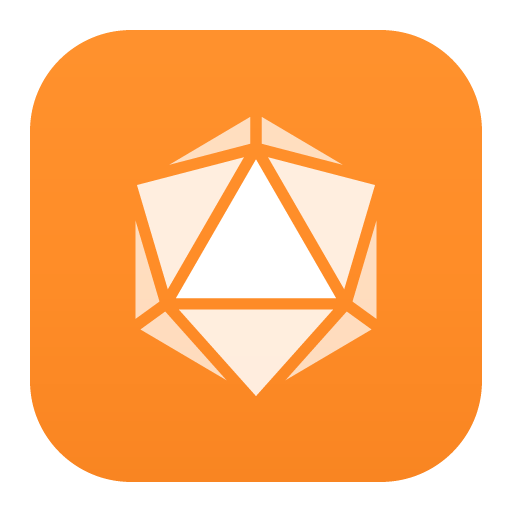
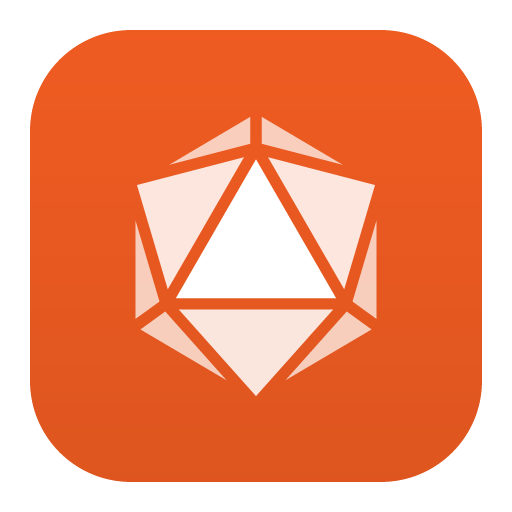
New colors

diff --git a/lib/screens/d10_view.dart b/lib/screens/d10_view.dart
@@ -139,9 +139,9 @@ Widget _labelRow(String name, String value, {Color? nameColor}) {
             children: [
               _backButton(context),
               const Spacer(),
-              _labelRow('Dice', _diceString, nameColor: _selected == 1 ? AppColors.teal : null),
+              _labelRow('Dice', _diceString, nameColor: _selected == 1 ? AppColors.green : null),
               const SizedBox(height: 4),
-              _labelRow('Difficulty', _difficultyString, nameColor: _selected == 2 ? AppColors.teal : null),
+              _labelRow('Difficulty', _difficultyString, nameColor: _selected == 2 ? AppColors.green : null),
               const SizedBox(height: 4),
               _labelRow('Successes', _successesString),
               const SizedBox(height: 32),
@@ -151,7 +151,7 @@ Widget _labelRow(String name, String value, {Color? nameColor}) {
                     padding: const EdgeInsets.all(4),
                     child: DiceButton(
                       label: 'Dice',
-                      tint: _selected == 1 ? AppColors.teal : secondaryBg,
+                      tint: _selected == 1 ? AppColors.green : secondaryBg,
                       contentColor: _selected == 1 ? Colors.white : labelColor,
                       onPressed: () => setState(() => _selected = 1),
                     ),
@@ -162,7 +162,7 @@ Widget _labelRow(String name, String value, {Color? nameColor}) {
                     padding: const EdgeInsets.all(4),
                     child: DiceButton(
                       label: 'Difficulty',
-                      tint: _selected == 2 ? AppColors.teal : secondaryBg,
+                      tint: _selected == 2 ? AppColors.green : secondaryBg,
                       contentColor: _selected == 2 ? Colors.white : labelColor,
                       onPressed: () => setState(() => _selected = 2),
                     ),

diff --git a/lib/screens/main_view.dart b/lib/screens/main_view.dart
@@ -142,7 +142,7 @@ class _MainViewState extends State<MainView> {
                     Row(children: [
                       Expanded(child: Padding(padding: const EdgeInsets.all(4), child: DiceButton(label: 'Clear', tint: AppColors.orange, onPressed: _clear))),
                       Expanded(child: Padding(padding: const EdgeInsets.all(4), child: DiceButton(label: '1d100', tint: secondaryBg, contentColor: labelColor, onPressed: () => _quickRoll(100)))),
-                      Expanded(child: Padding(padding: const EdgeInsets.all(4), child: DiceButton(label: 'D10', tint: AppColors.teal, onPressed: () => Navigator.of(context).pushNamed('/d10')))),
+                      Expanded(child: Padding(padding: const EdgeInsets.all(4), child: DiceButton(label: 'D10', tint: AppColors.green, onPressed: () => Navigator.of(context).pushNamed('/d10')))),
                     ]),
                   ],
                 ),

diff --git a/lib/theme.dart b/lib/theme.dart
@@ -4,8 +4,8 @@
 import 'package:flutter/material.dart';
 
 class AppColors {
-  static const teal = Color(0xFF30B0C7);
-  static const orange = Color(0xFFFF9500);
+  static const green = Color(0xFF045030);
+  static const orange = Color(0xFFF05C22);
 
   static const secondaryBackgroundLight = Color(0xFFEFEFF4);
   static const secondaryBackgroundDark = Color(0xFF1C1C1E);
@@ -26,7 +26,7 @@ ThemeData buildTheme(Brightness brightness) {
         isLight ? AppColors.windowBackgroundLight : AppColors.windowBackgroundDark,
     colorScheme: ColorScheme(
       brightness: brightness,
-      primary: AppColors.teal,
+      primary: AppColors.green,
       onPrimary: Colors.white,
       secondary: AppColors.orange,
       onSecondary: Colors.white,
